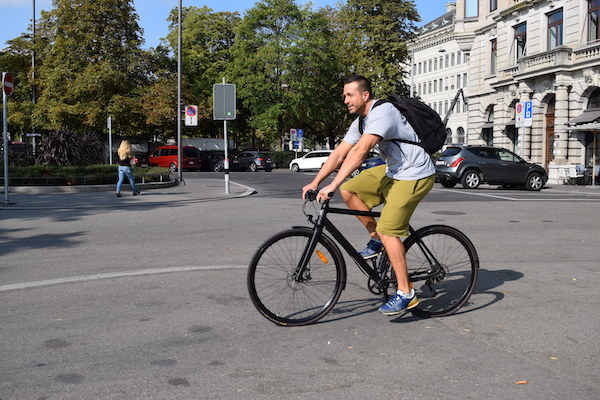
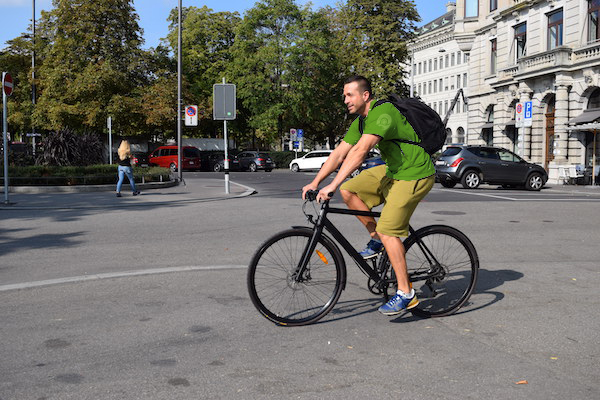
add green t-shirt to Gabor

Changed region(s): [[0.57, 0.24, 0.72, 0.45]]

diff --git a/resources/lang/en/homepage.php b/resources/lang/en/homepage.php
@@ -21,7 +21,7 @@ return [
 
     'howWorksMainTitle' => 'How it works?',
     'howWorksParagrph1' => 'When your car is dirty and parked in our area of service in Zürich for at least 60 to 90 minutes why not have it cleaned on the spot in an eco-friendly way?',
-    'howWorksParagrph2' => 'When you decided to have your car cleaned by us, contact us via xxxx and we make an appointment. If one of our Wiperz is available we can be there in 20 to 40 minutes.',
+    'howWorksParagrph2' => 'When you decided to have your car cleaned by us, contact us via our website and we make an appointment. If one of our Wiperz is available we can be there within 20 to 40 minutes.',
     'howWorksParagrph3' => 'We send you a Twint about the cleaning fee, your order is finalised when we receive the payment.',
     'howWorksParagrph4' => 'We travel to your car by our e-bikes and get to work.',
     'howWorksParagrph5' => 'If you ordered only the exterior cleaning there is no need for you to even unlock the car.',
@@ -47,7 +47,7 @@ return [
     'closed'  => 'Closed',   
 
     //service area
-    'serviceAreaTitle' => 'Servicebereich',
+    'serviceAreaTitle' => 'Service area',
     'serviceAreaText1' => 'Our service area is the city of Zürich in the highlighet area.',
     'serviceAreaText2' => 'We cover the following postal codes:',
     'serviceAreaText3' => 'Living outside, but on the edge of our service area? Give us a call and we see what we can do.',

diff --git a/resources/views/welcome.blade.php b/resources/views/welcome.blade.php
@@ -24,7 +24,7 @@
                             <div class="mt-5 sm:flex">
                                 @if (config('greenwiperz.registration_enabled'))
                                     <a href="{{ route('bookings.create') }}"
-                                        class="w-full flex items-center justify-center px-8 py-3 border border-transparent text-base leading-6 font-medium rounded-md text-white bg-green-600 hover:bg-green-500 focus:outline-none focus:border-green-700 focus:shadow-outline-green transition duration-150 ease-in-out md:py-4 md:text-lg md:px-10 ">
+                                        class="flex items-center justify-center px-8 py-3 border border-transparent text-base leading-6 font-medium rounded-md text-white bg-green-600 hover:bg-green-500 focus:outline-none focus:border-green-700 focus:shadow-outline-green transition duration-150 ease-in-out md:py-4 md:text-lg md:px-10 ">
                                         {{ __('action-buttons.bookACleaningCTA') }}
                                     </a>
                                 @else
@@ -164,8 +164,8 @@
                     </dl>
                 </div>
             </section>
-            <!-- How it works, how nanotech works and conditions -->
-            <x-how-it-works-content />       
+           
+                  
         </main>
     <x-footer />
 </x-guest-layout>

diff --git a/resources/lang/de/homepage.php b/resources/lang/de/homepage.php
@@ -51,7 +51,7 @@ return [
     'serviceAreaTitle' => 'Servicebereich',
     'serviceAreaText1' => 'Unser Servicebereich ist die Stadt Zürich, im hervorgehobenen Bereich.',
     'serviceAreaText2' => 'Wir decken die folgenden Postleitzahlen ab:',
-    'serviceAreaText3' => 'Sio wohnen ausserhalb, aber gerade am Rande unseres Servicebereichs? Rufen Sie uns an und wir sehen, was wir für Sie tun können.',
+    'serviceAreaText3' => 'Sie wohnen ausserhalb, aber gerade am Rande unseres Servicebereichs? Rufen Sie uns an und wir sehen, was wir für Sie tun können.',
 
     //contact information
     'contactInformation' => 'Kontakt',

diff --git a/routes/web.php b/routes/web.php
@@ -35,6 +35,7 @@ Route::middleware(['auth:sanctum', 'verified','can:update_appointments'])->get('
 // 
 
 // AUTH USER ZONE
+
 Route::middleware(['auth:sanctum', 'verified'])->get('/bookings', [BookingController::class, 'index'])->name('bookings.index');
 Route::middleware(['auth:sanctum', 'verified'])->get('/bookings/create', [BookingController::class, 'create'])->name('bookings.create');
 Route::middleware(['auth:sanctum', 'verified'])->get('/bookings/{booking}', [BookingController::class, 'show'])->name('bookings.show');
